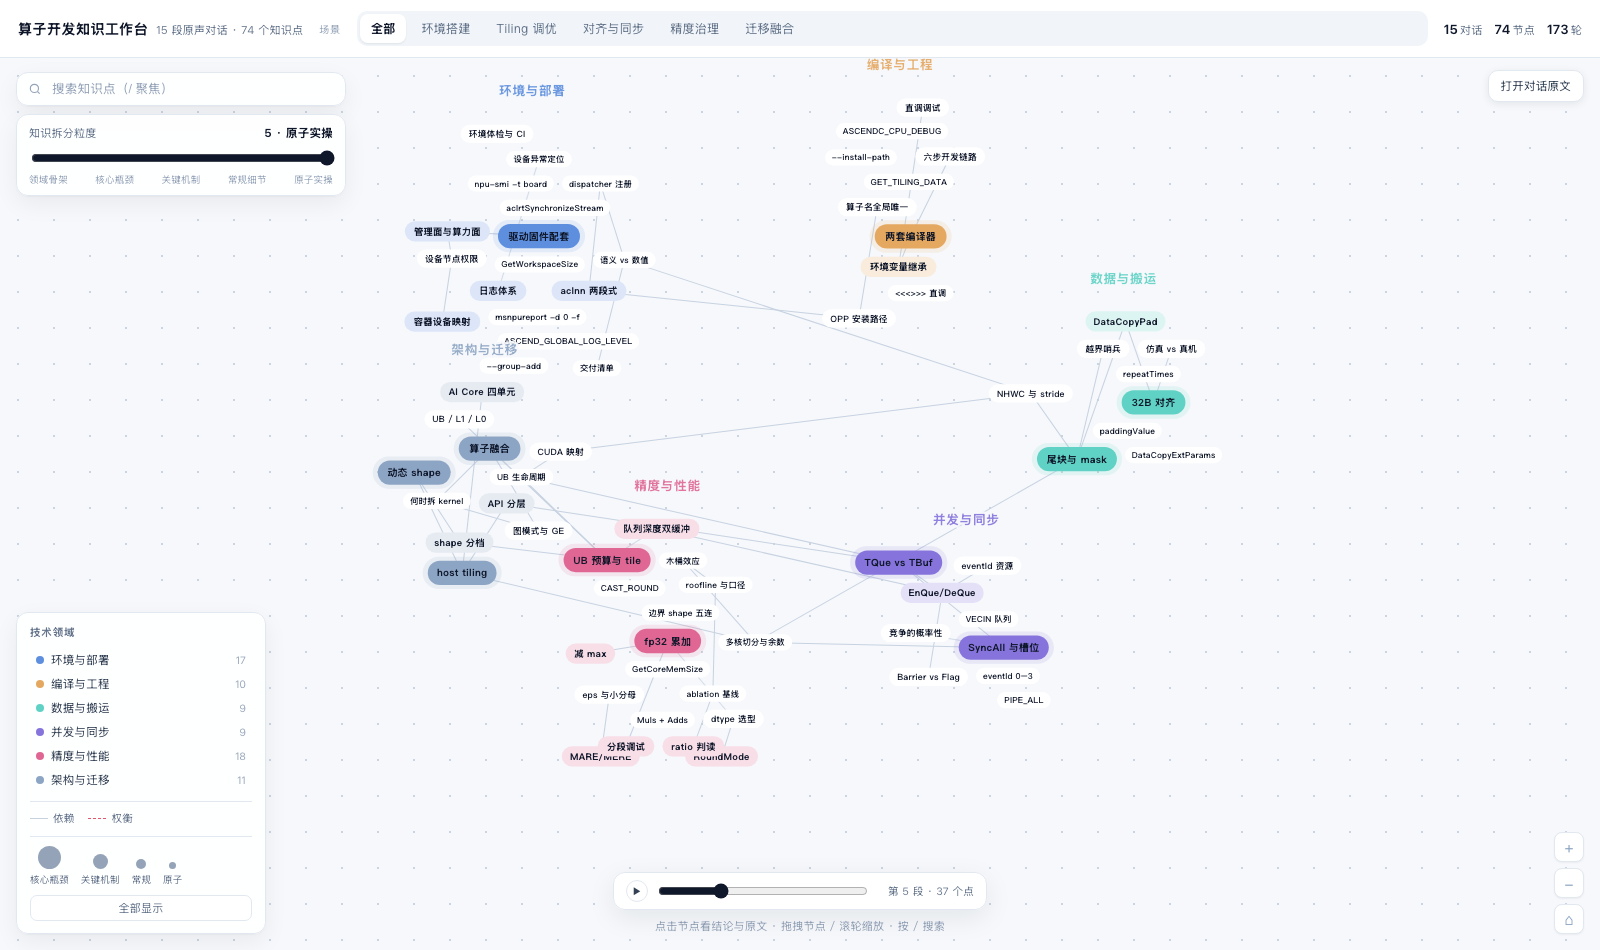
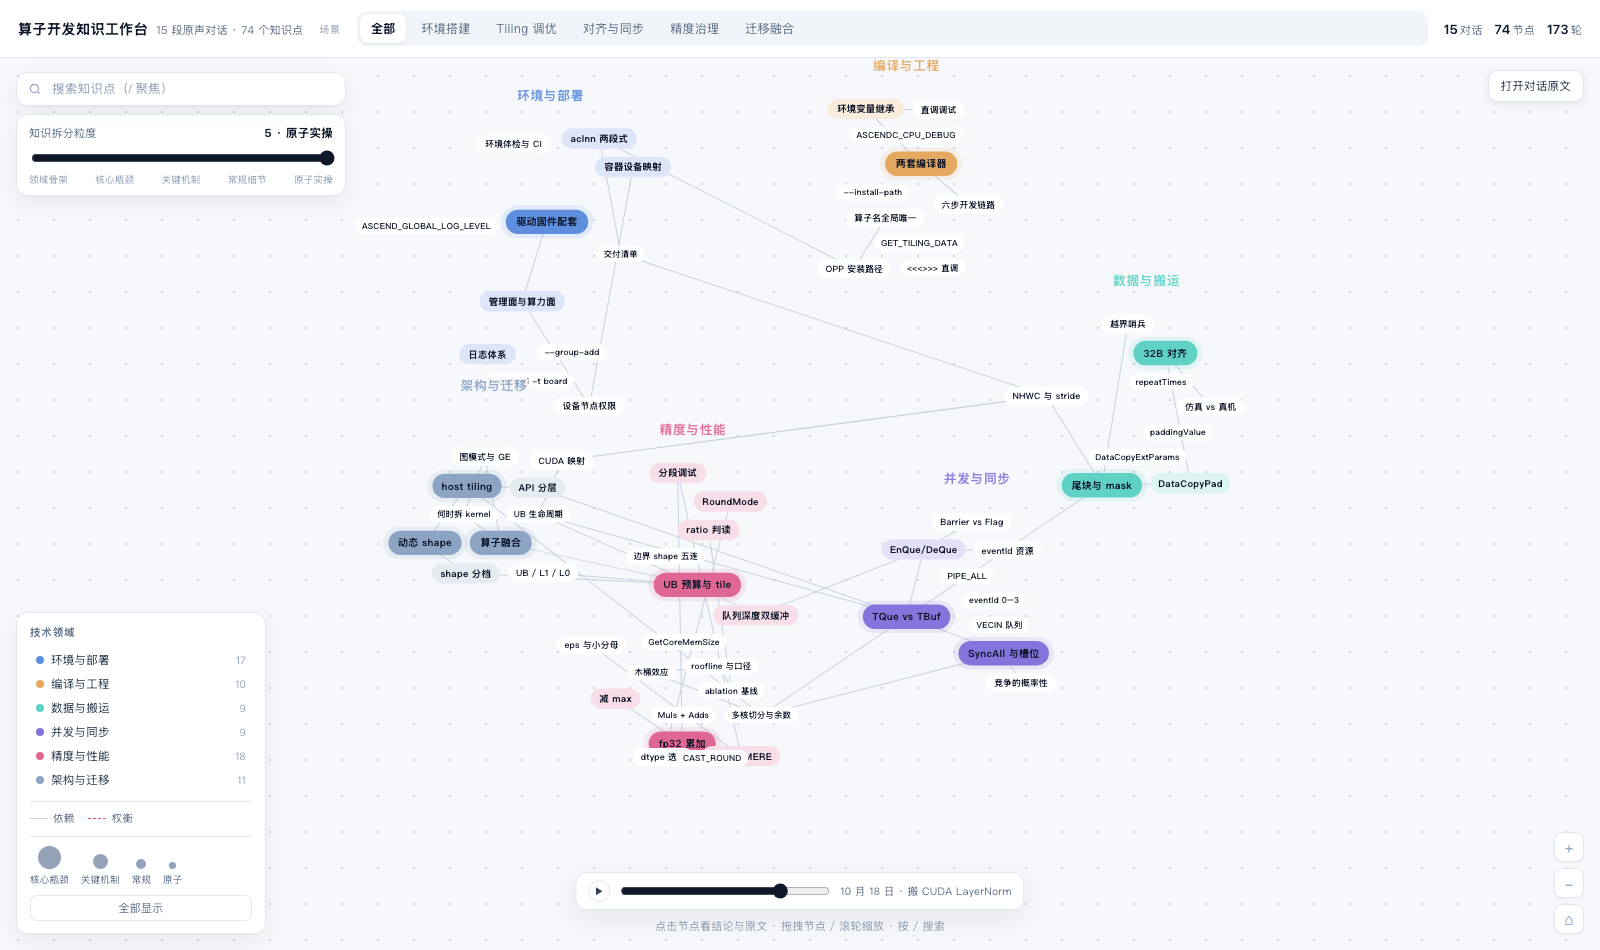
fix(timeline): 未出现节点真正隐藏，标签改为日期+篇名

diff --git a/cann-dashboard/算子知识工作台.html b/cann-dashboard/算子知识工作台.html
@@ -719,7 +719,8 @@ function buildNodes(){
 function render(){
   const list=visibleNodes(); const visSet=new Set(list.map(n=>n.id));
   HITS = state.q ? new Set(list.filter(matchQ).map(n=>n.id)) : null;
-  NODES.forEach(n=>{ n.__el.style.display=visSet.has(n.id)?'':'none'; });
+  const shown = state.tl<15 ? new Set(list.filter(n=>n.firstSeen<=state.tl).map(n=>n.id)) : visSet;
+  NODES.forEach(n=>{ n.__el.style.display=shown.has(n.id)?'':'none'; });
 
   // 节点位置与尺寸
   list.forEach(n=>{
@@ -728,7 +729,7 @@ function render(){
   });
 
   // 边
-  AGG=buildEdges(visSet);
+  AGG=buildEdges(shown);
   const eg=$('#edges'); eg.innerHTML='';
   AGG.forEach(e=>{
     const A=nodeById[e.a],B=nodeById[e.b];
@@ -742,9 +743,6 @@ function render(){
   });
 
   renderDomains(list);
-  list.forEach(n=>{
-    n.__el.classList.toggle('tldim', state.tl<15 && n.firstSeen>state.tl);
-  });
   applyHighlight();
   if(typeof renderBadges==='function') renderBadges();
 }
@@ -799,7 +797,7 @@ function applyHighlight(){
       t.style.opacity = !hitDoms ? .9 : (hitDoms.has(t.dataset.dom) ? .9 : .16);
     });
     document.querySelectorAll('.eglabel').forEach(e=>e.remove());
-    const base = state.tl<15 ? '.15' : (HITS?'.22':'1');
+    const base = HITS?'.22':'1';
     AGG.forEach(e=>{
       e.__el.setAttribute('stroke-opacity', base);
       e.__el.removeAttribute('marker-end');
@@ -1288,11 +1286,14 @@ $('#pbCopy').onclick=async()=>{
 };
 
 /* 时间轴 */
+const TL_START=new Date(2026,8,1);
+const TL_OFFSET=[0,3,8,12,15,21,25,29,34,38,43,47,52,56,61];
+function tlDate(c){ const d=new Date(TL_START); d.setDate(d.getDate()+TL_OFFSET[c-1]); return d; }
 function tlLabel(){
-  if(state.tl>=15){ $('#tlLab').textContent='全部 15 段'; return; }
-  const n=ROUNDS.filter(r=>r.c===state.tl).length;
-  const shown=NODES.filter(x=>x.firstSeen<=state.tl).length;
-  $('#tlLab').textContent=`第 ${state.tl} 段 · ${shown} 个点`;
+  const el=$('#tlLab');
+  if(state.tl>=15){ el.textContent='全部 15 段'; return; }
+  const d=tlDate(state.tl);
+  el.textContent=`${d.getMonth()+1} 月 ${d.getDate()} 日 · ${dlgByN[state.tl].t}`;
 }
 function setTl(v){
   state.tl=Math.max(1,Math.min(15,v));
